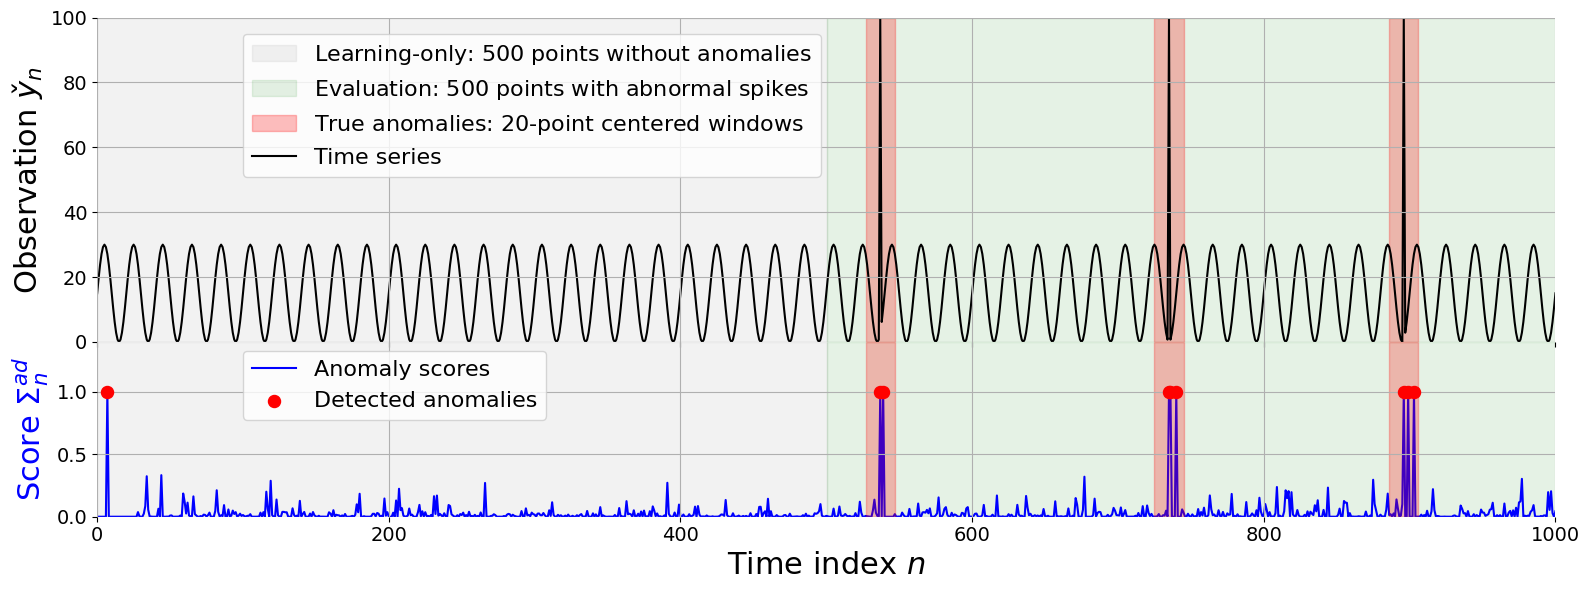
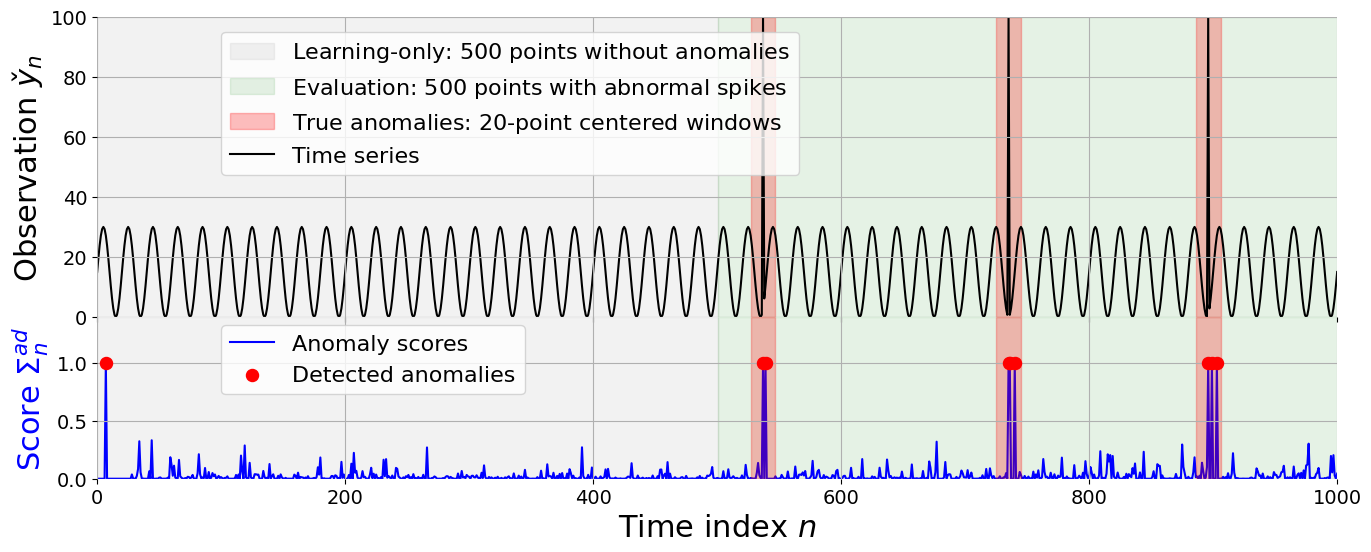
Fixing latex rendering to use internal MathTex

Changed region(s): [[0.0, 0.0308, 1.0, 0.9239], [0.4595, 0.9239, 0.6127, 0.9855], [0.0306, 0.0, 0.0613, 0.0616]]

diff --git a/tests/test_bitutils.py b/tests/test_bitutils.py
@@ -109,7 +109,7 @@ class TestBitUtils(unittest.TestCase):
         gs = fig.add_gridspec(4, hspace=0.5, height_ratios=[0.4, 0.25, 0.1, 0.25])
         axs = gs.subplots(sharex=True, sharey=False)
 
-        plt.rcParams['text.usetex'] = True
+        plt.rcParams['text.usetex'] = False
         plt.rcParams['text.latex.preamble'] = r'\usepackage{amsmath} \usepackage{amssymb} \usepackage{amsthm}'
 
         axs[0].set_frame_on(True)
@@ -197,7 +197,7 @@ class TestBitUtils(unittest.TestCase):
         gs = fig.add_gridspec(3, hspace=0.5, height_ratios=[0.4, 0.25, 0.1])
         axs = gs.subplots(sharex=True, sharey=False)
 
-        plt.rcParams['text.usetex'] = True
+        plt.rcParams['text.usetex'] = False
         plt.rcParams['text.latex.preamble'] = r'\usepackage{amsmath} \usepackage{amssymb} \usepackage{amsthm}'
 
         axs[0].set_frame_on(True)

diff --git a/tests/test_npclad.py b/tests/test_npclad.py
@@ -65,6 +65,10 @@ class TestNPCLAD(unittest.TestCase):
         print('Max detection time: {0:.2f} milliseconds'.format(self.test_statistics["max_detect_time"]*1000.0))
         print('Acc network memory: {0:.2f} kilobytes'.format(self.test_statistics["total_memory_stats"]))
 
+        # Ensure external LaTeX is off so it uses the native engine
+        plt.rcParams["text.usetex"] = False
+        plt.rcParams['text.latex.preamble'] = r'\usepackage{amsmath} \usepackage{amssymb} \usepackage{amsthm}'
+
         time_series_name = self.test_statistics["time_series_name"]
         time_series = self.test_statistics["time_series"]
         ground_truth = self.test_statistics["ground_truth"]

diff --git a/README.md b/README.md
@@ -10,7 +10,7 @@ cd wnnlib
 
 Install required system packages:
 ```bash
-sudo apt install python3-pip python3.12-venv python3-pytest
+sudo apt install python3-pip python3.12-venv
 ```
 
 Create the virtual environment:
@@ -48,7 +48,7 @@ python3 -m unittest test/test_npclad.py
 
 ## Run all unit tests using PyTest
 
-Test VGRAM node:
+Run all tests under the ./tests folder:
 ```bash
 pytest
 ```
